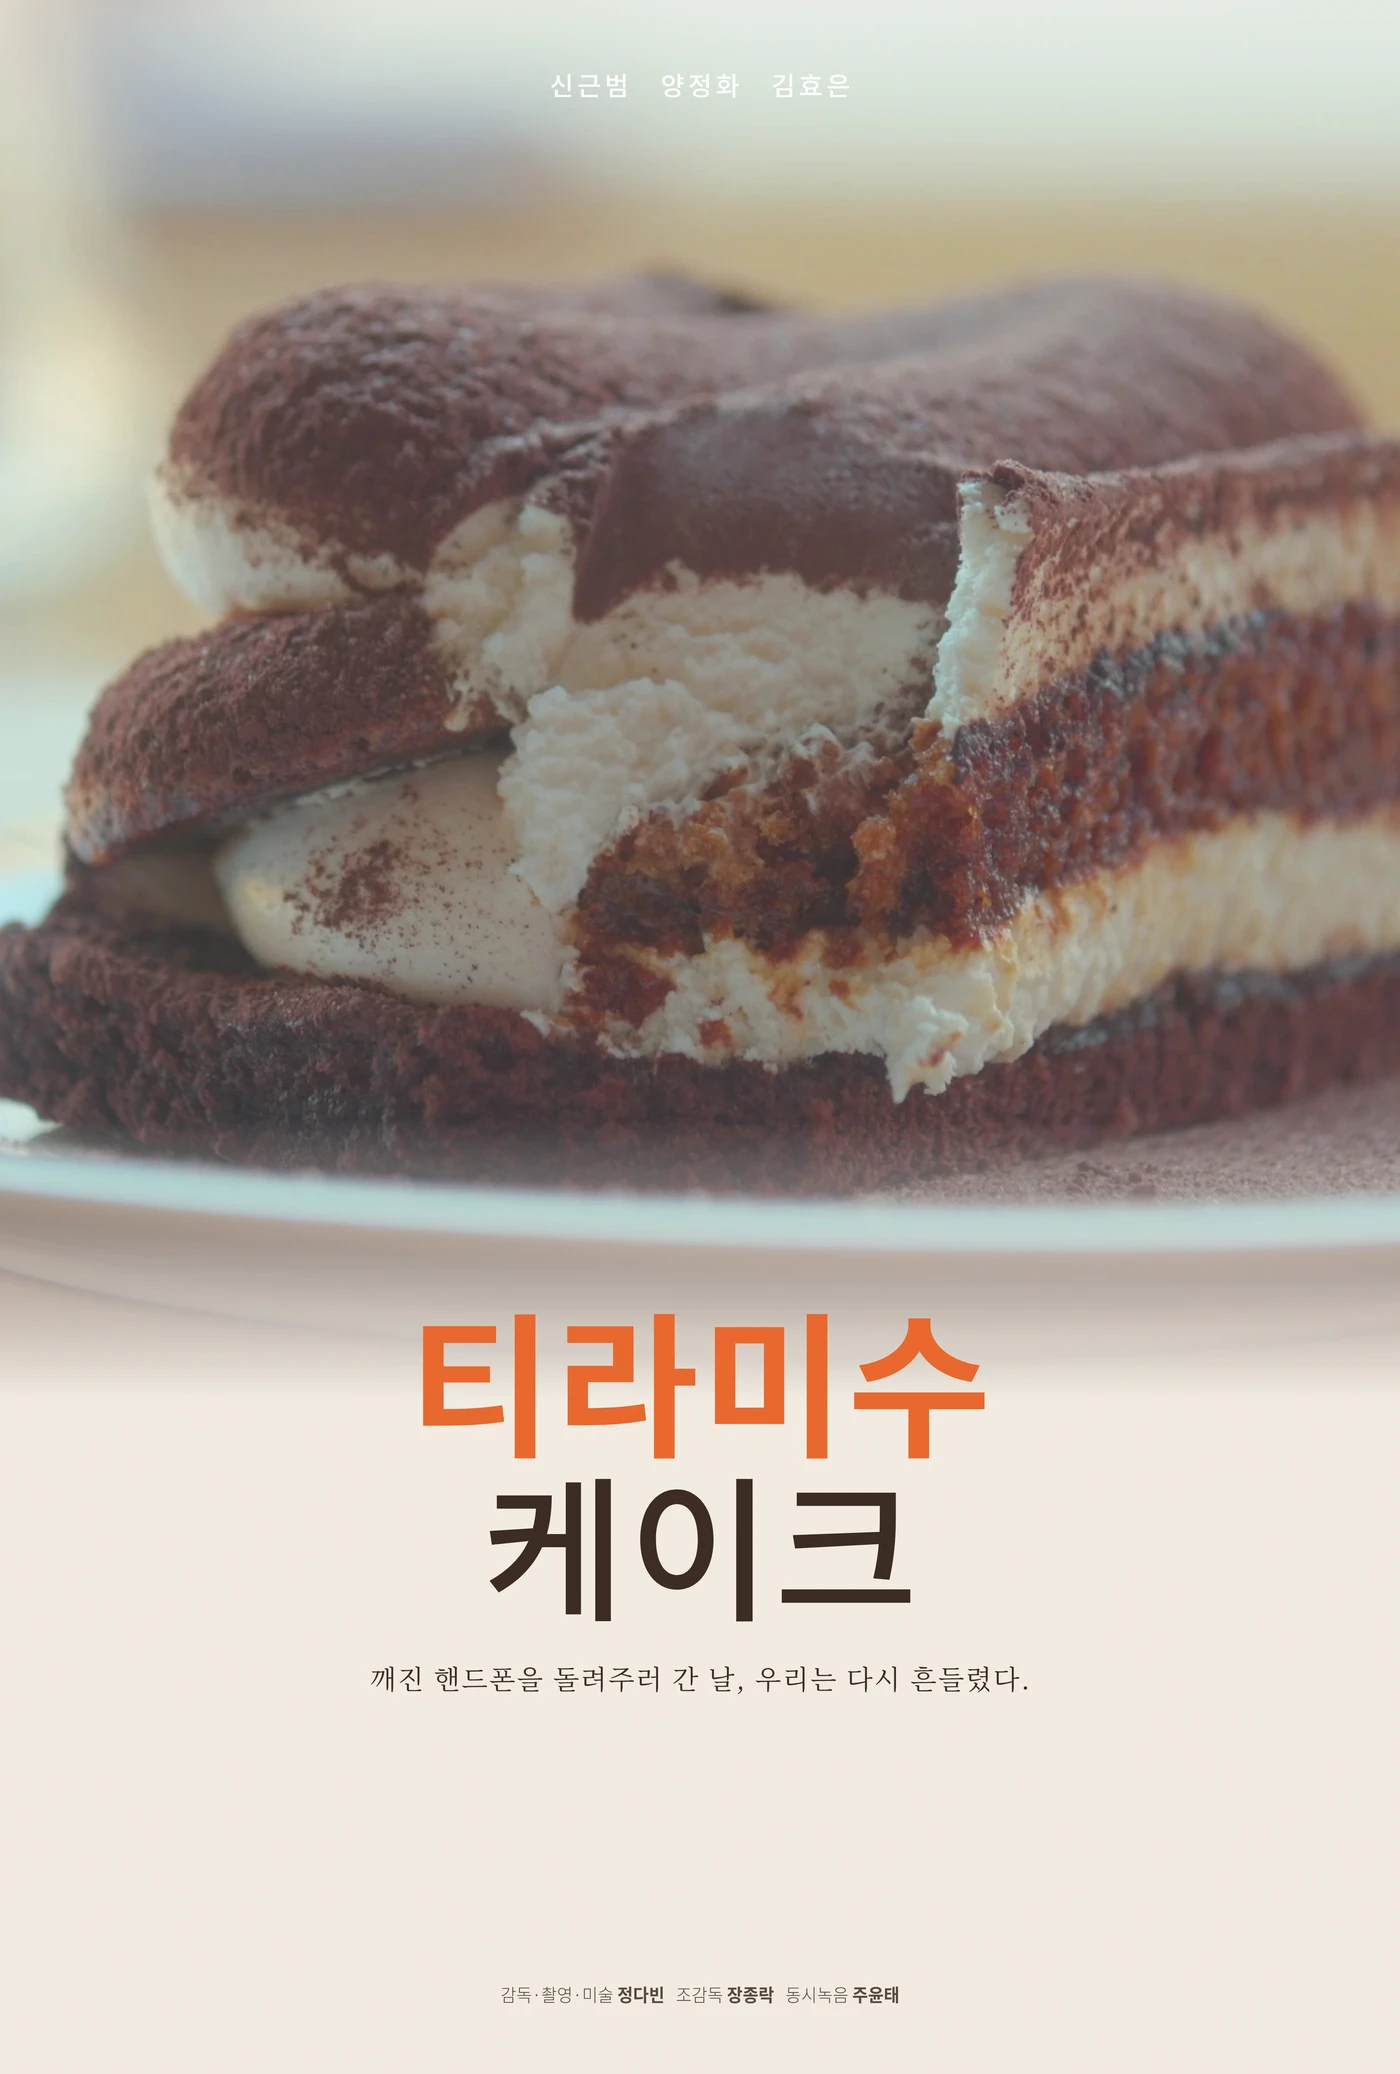
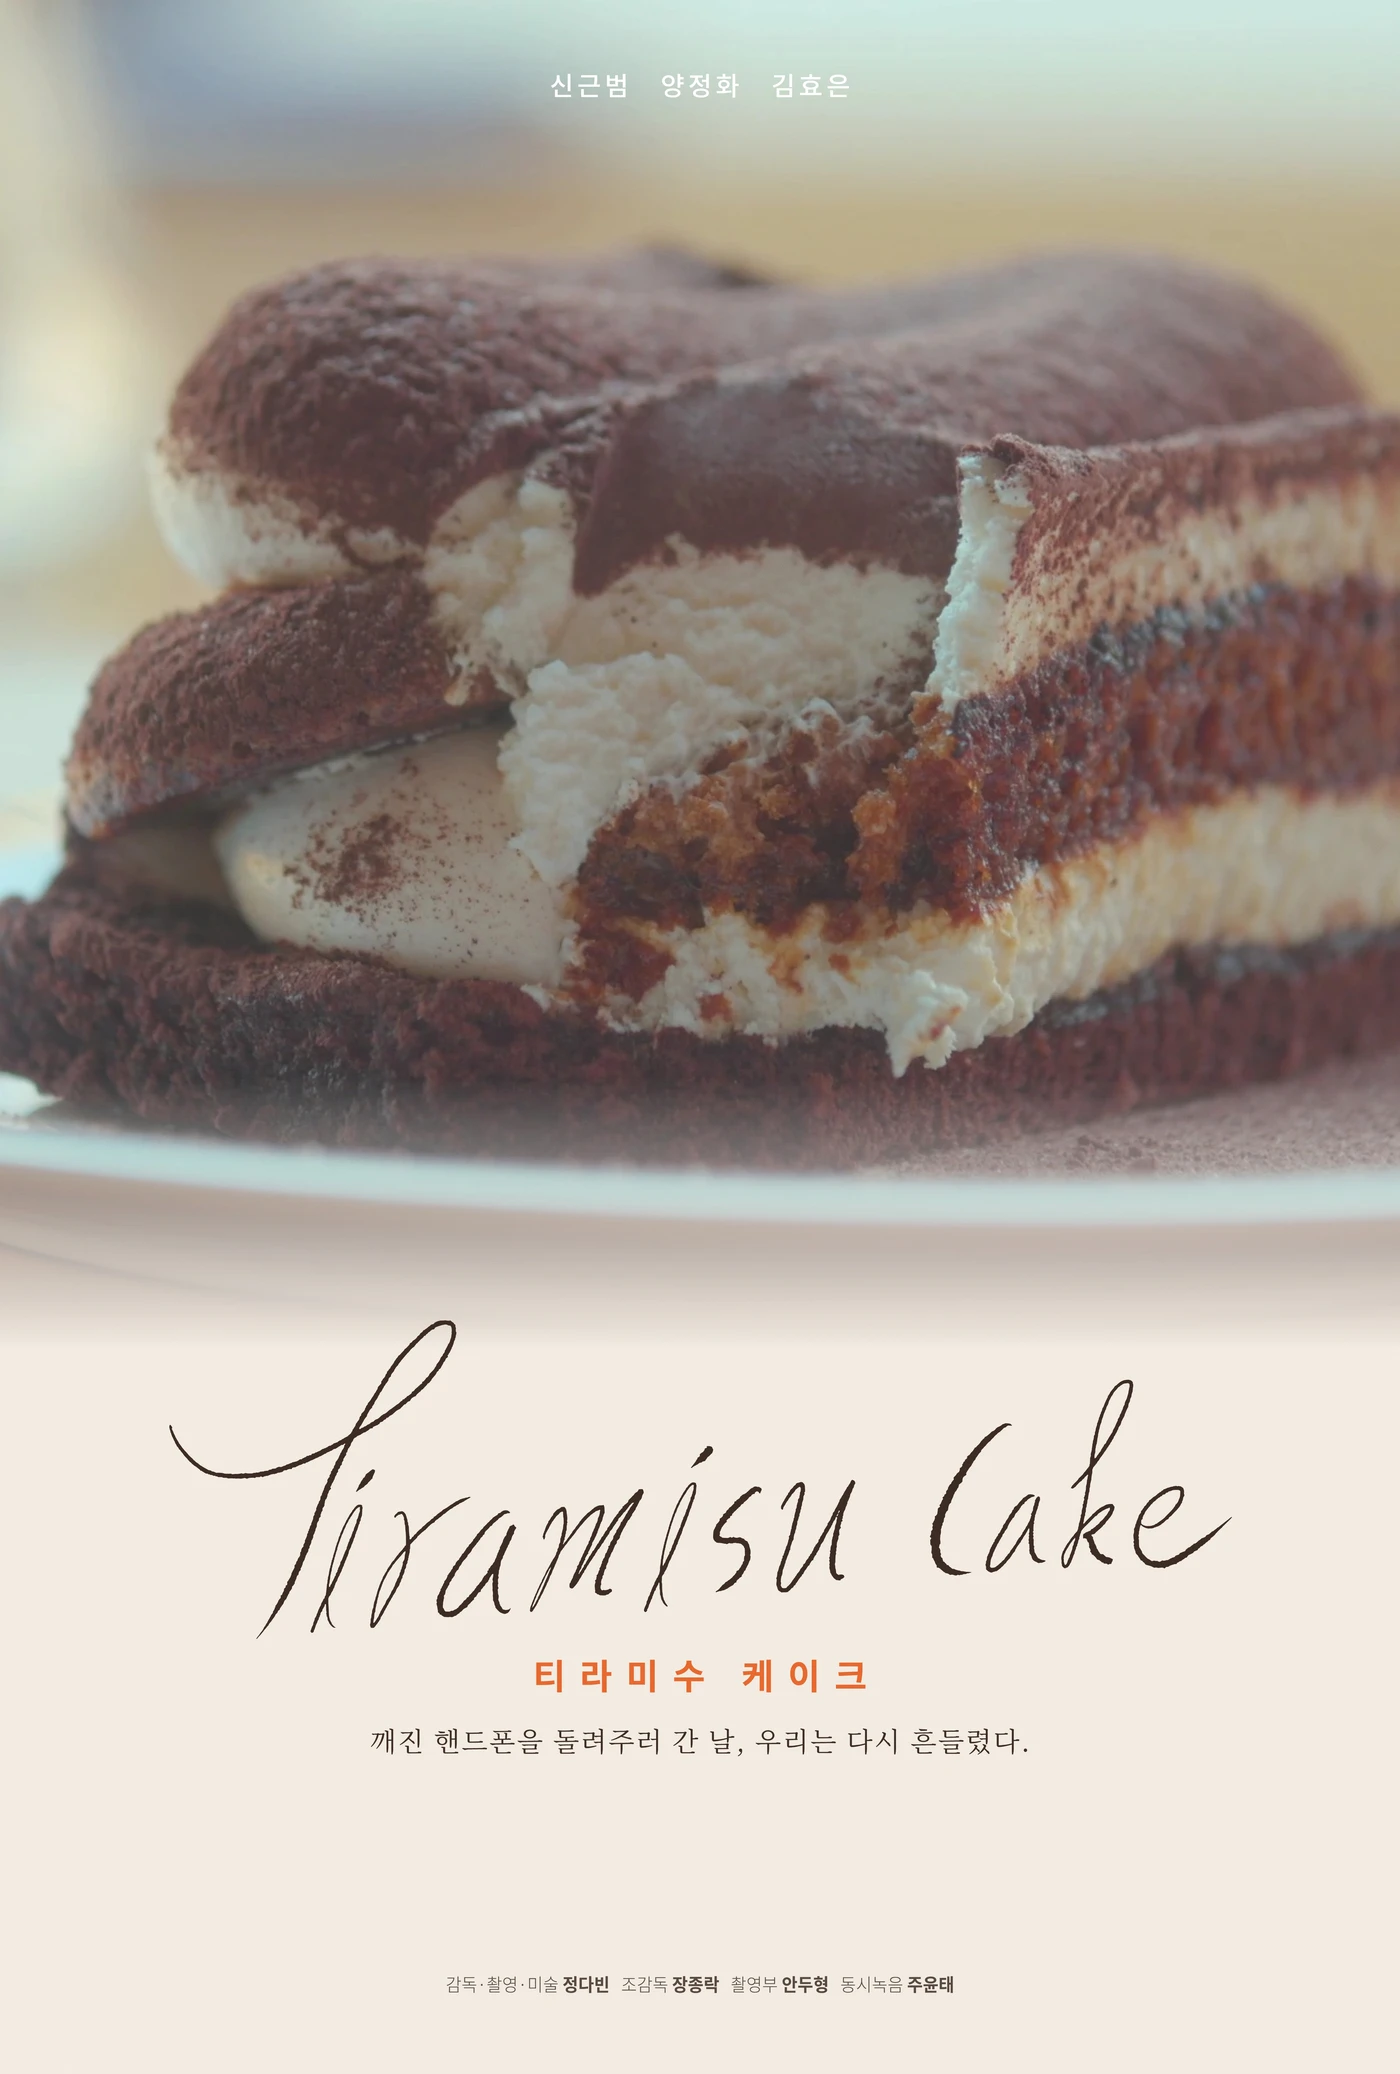
티라미수케이크 포스터 교체
Claude-Session: https://claude.ai/code/session_01YYRb2KB3eF6Q3RKez6YmkW

diff --git a/index.html b/index.html
@@ -2466,7 +2466,7 @@ const roleHTML=L=>L.map(roleTag).join('<span class="rl-sep"> · </span>');
 const roleEn=f=>roleHTML(roleList(f[2]));
 const roleShort=r=>[/Direct/.test(r)&&"Dir",/DOP/.test(r)&&"DOP",/Color/.test(r)&&"Color"].filter(Boolean).join(" + ");
 /* 로컬 원본 이미지 */
-const W=(k,t,n)=>`img/w/${k}/${t}${n}.webp${t==="p"?"?v=10":""}`;
+const W=(k,t,n)=>`img/w/${k}/${t}${n}.webp${t==="p"?"?v=11":""}`;
 const has=(k,t)=>MEDIA[k]&&MEDIA[k][t]&&MEDIA[k][t].length;
 const cover=(k,fallback)=>(typeof HQS!=="undefined"&&HQS[k])?HQU(k,0):has(k,"s")?W(k,"s",0):fallback;
 const rnd=n=>Math.floor(Math.random()*n);
